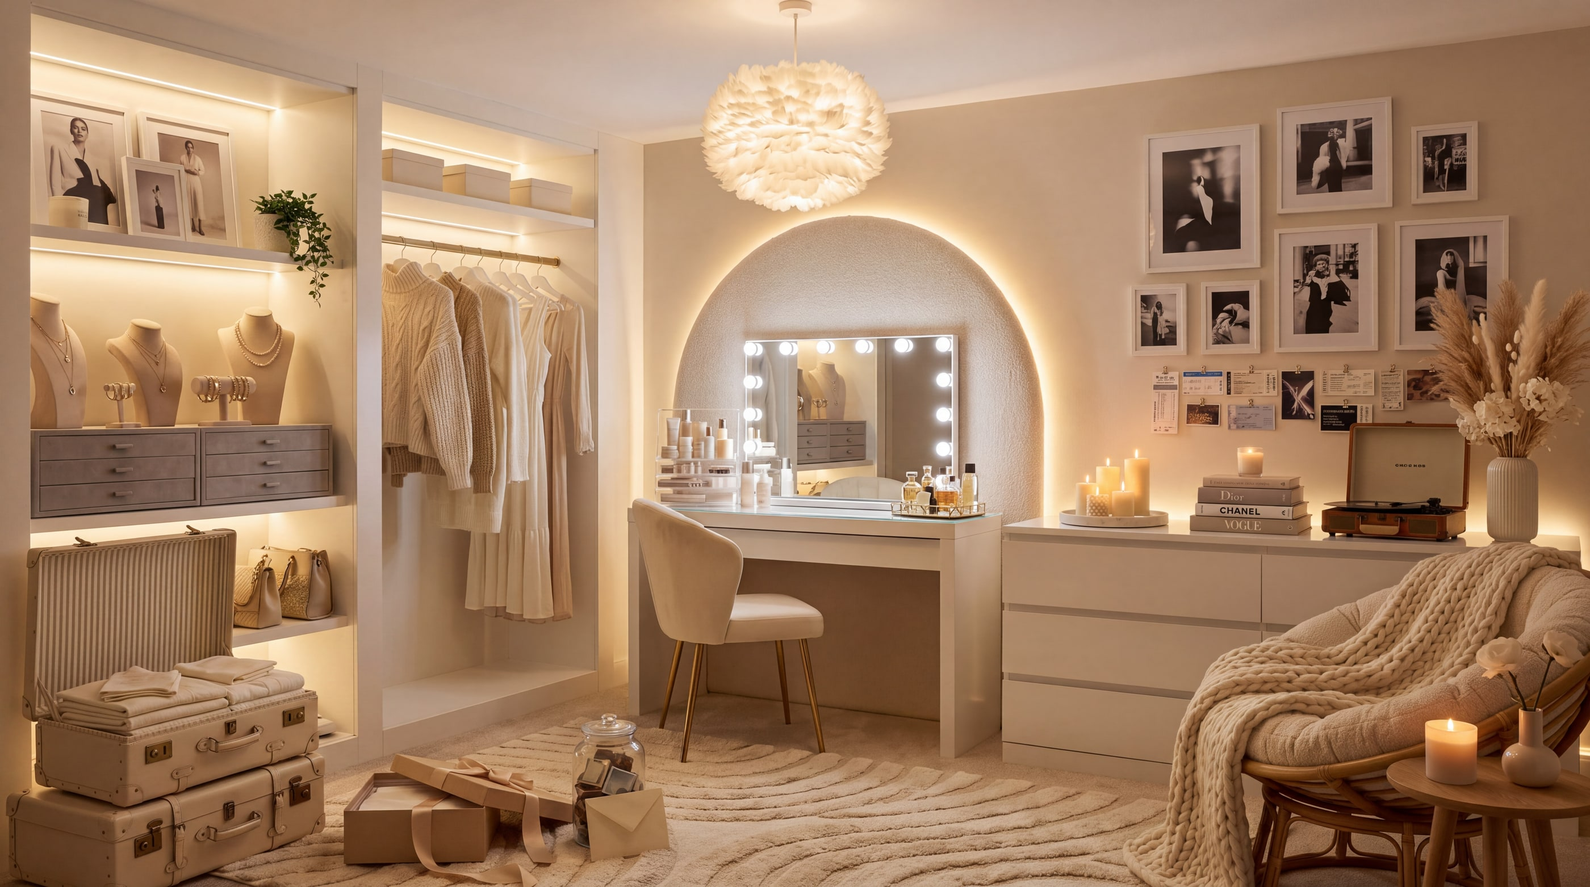
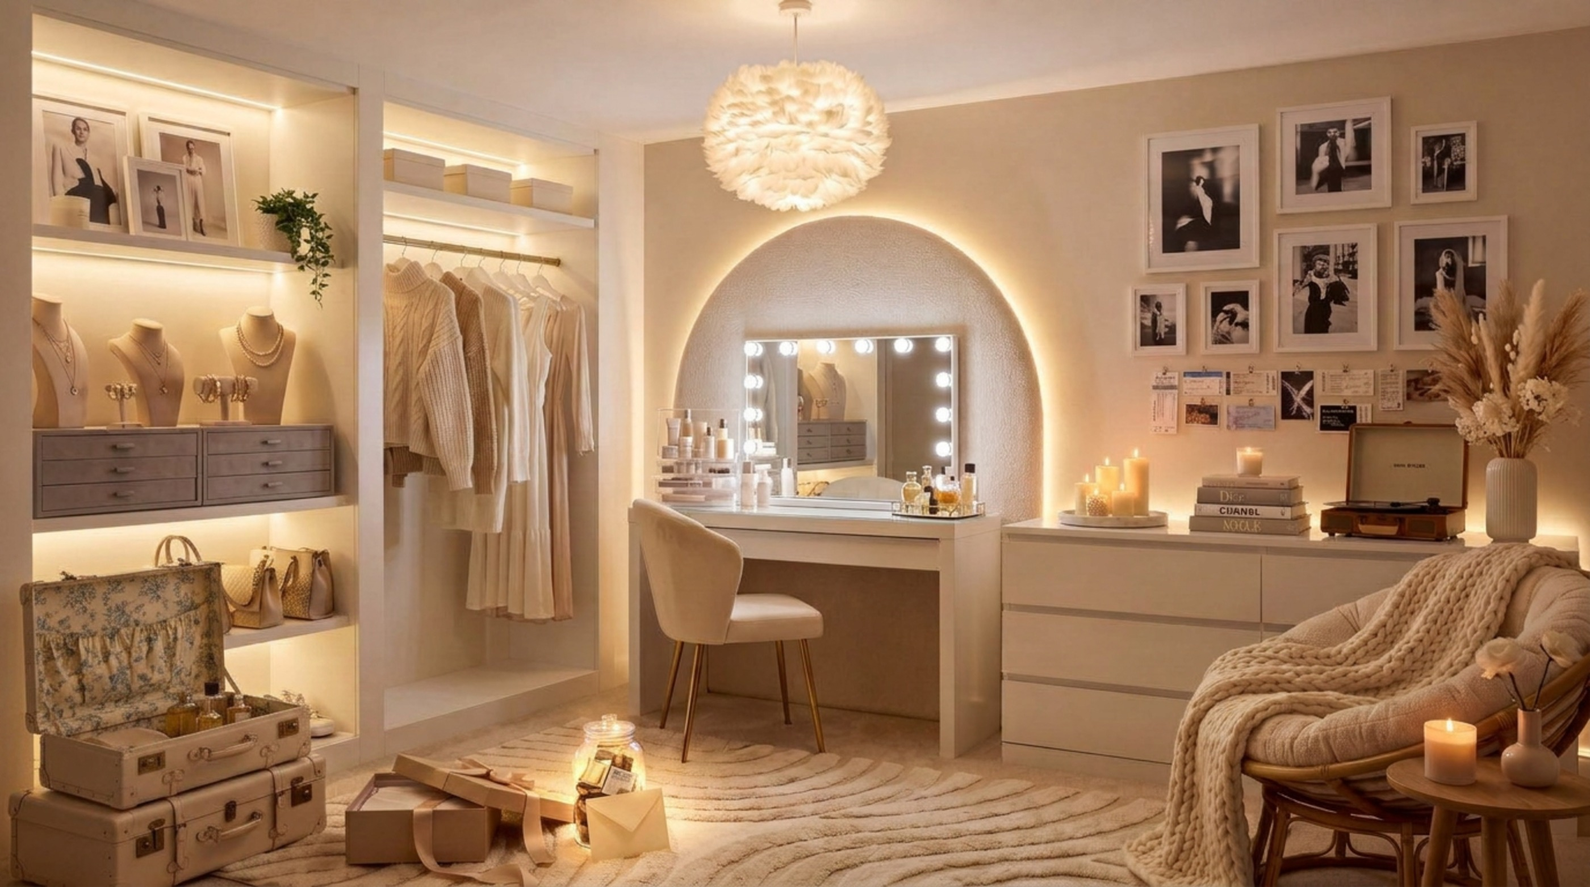
feat: партия 2 «Кремовой» — база байт-в-байт, подключено 4 из 6 (тикет 53-2)
Дизайнер сделал обе вещи, которых добивались две партии: база байт-в-байт
наша (sha совпал — блок «база» исчез из приёмки навсегда) и самопрогон
порога до отправки (его числа сошлись с нашими).

Порог 6 из 6; глаза 4 из 6. Подключены home (поднос выехал, свечи горят),
travel (заменил кадр раунда 3, который гасил банку-копилку при каждом
раскрытии), flowers (проигрыватель на месте), anything (банка цела). Отказы:
fashion — со штанги исчезли два свитера, третья пропажа этой зоны; perfume —
вся зона в расфокусе.

Кадров в контракте 7 → 10. Тесты контракта переведены на историю двух партий
(round8.batches), снимок аудита 49 не тронут. Маски: формат принят, геометрия
на доработке (прямоугольники вместо силуэтов; home задевает книги). Замеры
events/money дизайна сохранены как rectDesignMeasured-вопрос — сверка по 5504
отдельно, действуют наши прямоугольники.

Вердикт и задание допартии: design/ANSWERS-cream-batch2.md.

diff --git a/tests/design-contract.test.ts b/tests/design-contract.test.ts
@@ -237,24 +237,30 @@ describe("кадры «открыто» (openFrame — единственный 
   const accepted = allZones.filter(({ zone }) => zone.accepted);
   const absent = allZones.filter(({ zone }) => zone.objectAbsent);
 
-  it("кадров «открыто» ровно 7, и столько же с флагом accepted", () => {
+  it("кадров «открыто» ровно 10, и столько же с флагом accepted", () => {
     // Счёт кадров по раундам: 49 → 39 (раунд 4 переразметил 35 зон) → 33
     // (раунд 5 исправил ещё 14 прямоугольников) → 30 (раунд 7: +1 новый,
     // −4 никогда не проходивших порог) → 7 (тикет 49: −23 по просмотру
-    // глазами). Флаг и данные совпадают, потому что и то и другое ставит наше
-    // измерение, а не пакет.
-    expect(withFrame).toHaveLength(7);
-    expect(accepted).toHaveLength(7);
+    // глазами) → 10 (партия 2 «Кремовой»: +4, из них travel — замена кадра
+    // раунда 3, гасившего банку-копилку). Флаг и данные совпадают, потому что
+    // и то и другое ставит наше измерение, а не пакет.
+    expect(withFrame).toHaveLength(10);
+    expect(accepted).toHaveLength(10);
     expect(absent).toHaveLength(8);
-    expect(withFrame.map((z) => z.id)).toEqual([
-      "cream/travel",
-      "gamer/travel",
-      "sport/anything",
-      "sport/sneakers",
-      "sport/travel",
-      "study/events",
-      "study/sport",
-    ]);
+    expect(withFrame.map((z) => z.id).sort()).toEqual(
+      [
+        "cream/anything",
+        "cream/flowers",
+        "cream/home",
+        "cream/travel",
+        "gamer/travel",
+        "sport/anything",
+        "sport/sneakers",
+        "sport/travel",
+        "study/events",
+        "study/sport",
+      ].sort(),
+    );
   });
 
   it("accepted ⟺ openFrame: флаг больше не может разойтись с данными", () => {
@@ -315,8 +321,13 @@ describe("кадры «открыто» (openFrame — единственный 
     // ровно до тех пор, пока прямоугольник тот же, против которого его мерили.
     // `rectOld` — прямоугольник до последней переразметки; если он есть, зона
     // переразмечена, и кадр обязан быть снят заново.
-    const round3 = withFrame.filter(({ zone }) => zone.frameRound !== 7);
-    expect(round3).toHaveLength(6);
+    const byRound: Record<string, number> = {};
+    for (const { zone } of withFrame)
+      byRound[zone.frameRound ?? "r3"] = (byRound[zone.frameRound ?? "r3"] ?? 0) + 1;
+    // 5 раунда 3 (без поля), 1 раунда 7, 4 партии 2 раунда 8.
+    expect(byRound).toEqual({ r3: 5, "7": 1, "8": 4 });
+    const round3 = withFrame.filter(({ zone }) => zone.frameRound === undefined);
+    expect(round3).toHaveLength(5);
     for (const { id, zone } of round3) {
       expect(zone.rectOld, `${id}: у зоны с кадром переразметки быть не может`).toBeUndefined();
       expect(zone.remappedRound, `${id}`).toBeUndefined();
@@ -361,9 +372,10 @@ describe("кадры «открыто» (openFrame — единственный 
     // кадра», пять стояли одновременно в «нет предмета» и «переснять». Обе
     // поломки шли от флагов пакета. Теперь флаги ставит наше измерение, и
     // арифметика снова сходится в одну строку — новый пакет сломает её сразу.
-    // Тикет 49 передвинул 23 зоны из «принято» в «переснять»: 92 → 115.
+    // Тикет 49 передвинул 23 зоны из «принято» в «переснять»: 92 → 115;
+    // партия 2 «Кремовой» вернула четыре обратно: 115 → 112.
     const reshoot = allZones.filter(({ zone }) => zone.reshoot);
-    expect([accepted.length, reshoot.length, absent.length]).toEqual([7, 115, 8]);
+    expect([accepted.length, reshoot.length, absent.length]).toEqual([10, 112, 8]);
     const doubled = allZones.filter(
       ({ zone }) => [zone.accepted, zone.reshoot, zone.objectAbsent].filter(Boolean).length > 1,
     );
@@ -415,13 +427,13 @@ describe("кадры «открыто» (openFrame — единственный 
     // сняла приёмка 49: конверт там подменён шкатулкой с украшениями. Правило
     // про `warm`/`loft` осталось в силе и сторожится ниже — просто вычитать
     // ему больше нечего.
-    expect(withFrame).toHaveLength(7);
+    expect(withFrame).toHaveLength(10);
     const connected = rooms.flatMap((room) =>
       room.zones.filter((zone) => zone.openFrame).map((zone) => `${room.id}/${zone.key}`),
     );
-    expect(connected).toHaveLength(7);
+    expect(connected).toHaveLength(10);
     expect(connected.filter((id) => id.startsWith("warm/") || id.startsWith("loft/"))).toEqual([]);
-    expect(withFrame.filter(({ room }) => !["warm", "loft"].includes(room.id))).toHaveLength(7);
+    expect(withFrame.filter(({ room }) => !["warm", "loft"].includes(room.id))).toHaveLength(10);
     for (const room of rooms) {
       for (const zone of room.zones) {
         if (!zone.openFrame) continue;
@@ -484,7 +496,7 @@ describe("кадры «открыто» (openFrame — единственный 
     }
   });
 
-  it("раунд 8, «Кремовая»: 13 кадров смотрены глазами, подключено 0 — и почему", () => {
+  it("раунд 8, «Кремовая»: две партии в контракте числами", () => {
     // Первая полная комната раунда 8 (тикет 53). Сводка лежит в контракте
     // (`round8`), как `identityCheck` у тикета 49: отчёт в тикете легко
     // расходится с данными, числа рядом с флагами — нет.
@@ -508,21 +520,41 @@ describe("кадры «открыто» (openFrame — единственный 
         masksArrived: boolean;
       };
     };
-    const r8 = raw.round8;
-    expect(r8.batch).toBe("cream");
-    expect(r8.shot).toBe(13);
-    expect(r8.connected).toBe(0);
-    // Глаза обязательны по всем парам, и арифметика классов сходится с partiей.
-    expect(r8.eyes.reviewed).toBe(13);
+    const history = raw.round8 as unknown as {
+      batches: number;
+      latest: {
+        batch: string; shot: number; passedThreshold: number; connected: number;
+        eyes: { reviewed: number; honest: number; contentLost: number; outOfFocus: number };
+        base: { identical: boolean; sha256: string };
+        masksArrived: number; note: string;
+      };
+      first: typeof raw.round8;
+    };
+    expect(history.batches).toBe(2);
+
+    // Партия 1 (тикет 53): 13 кадров, подключено 0, база не наша — история
+    // хранится целиком, чтобы урок не потерялся.
+    const first = history.first;
+    expect(first.shot).toBe(13);
+    expect(first.connected).toBe(0);
+    expect(first.base.identical).toBe(false);
+    expect(first.base.l1).toBeCloseTo(0.0327, 4);
+    expect(first.masksArrived).toBe(false);
+
+    // Партия 2: база байт-в-байт наша — блок «база» исчез из приёмки, как и
+    // обещали; порог 6 из 6, глаза сняли два (пропажа и расфокус).
+    const latest = history.latest;
+    expect(latest.batch).toBe("cream");
+    expect(latest.shot).toBe(6);
+    expect(latest.passedThreshold).toBe(6);
+    expect(latest.connected).toBe(4);
+    expect(latest.eyes.reviewed).toBe(6);
     expect(
-      r8.eyes.honest + r8.eyes.substitution + r8.eyes.contentLost + r8.eyes.nothingHappened,
-    ).toBe(13);
-    // Главная причина нулевого подключения — база партии не наша: продукт
-    // кроссфейдит СВОЮ базу, и кадр, снятый с чужой, мигает всей комнатой.
-    expect(r8.base.identical).toBe(false);
-    expect(r8.base.l1).toBeCloseTo(0.0327, 4);
-    expect(r8.note).toMatch(/байт-в-байт/u);
-    expect(r8.masksArrived).toBe(false);
+      latest.eyes.honest + latest.eyes.contentLost + latest.eyes.outOfFocus,
+    ).toBe(6);
+    expect(latest.base.identical).toBe(true);
+    expect(latest.base.sha256).toBe("06a03e87ff2d6ce7");
+    expect(latest.masksArrived).toBe(3);
 
     // Двенадцать вердиктов раунда 8 лежат у зон (travel не переоценивался:
     // его рабочий кадр раунда 3 подключён, а новый кадр партии не нужен —
@@ -531,26 +563,38 @@ describe("кадры «открыто» (openFrame — единственный 
     const reviewed = cream.zones.filter((zone) => zone.reshootReason?.includes("тикет 53"));
     expect(reviewed.map((zone) => zone.key).sort()).toEqual(
       [
-        "anything", "bags", "beauty", "books", "events", "fashion",
-        "flowers", "home", "jewelry", "money", "music", "perfume",
+        "bags", "beauty", "books", "events", "fashion",
+        "jewelry", "money", "music", "perfume",
       ].sort(),
     );
     const byClass = (klass: string) =>
       reviewed.filter((zone) => zone.reshootReason?.startsWith(klass)).map((zone) => zone.key);
     expect(byClass("честное раскрытие, не подключён").sort()).toEqual(
-      ["events", "fashion", "jewelry", "money"].sort(),
+      ["events", "jewelry", "money"].sort(),
     );
-    expect(byClass("подмена")).toHaveLength(6);
-    expect(byClass("подмена окружения").sort()).toEqual(["anything", "flowers"].sort());
-    expect(byClass("действия нет").sort()).toEqual(["home", "music"].sort());
+    // Подмены первой партии: bags, beauty, books (perfume перекрыт партией 2;
+    // anything и flowers — «подмена окружения» — подключены честными кадрами
+    // партии 2, их причины сняты вместе с reshoot).
+    expect(byClass("подмена").sort()).toEqual(["bags", "beauty", "books"].sort());
+    expect(byClass("действия нет").sort()).toEqual(["music"].sort());
+    // Партия 2 переоценила двоих: у fashion и perfume причина начинается с
+    // «партия 2» — их вердикты первой партии перекрыты вторыми кадрами
+    // (fashion: пропажа двух свитеров, третий раз; perfume: зона в расфокусе).
+    expect(byClass("партия 2").sort()).toEqual(["fashion", "perfume"].sort());
     for (const zone of reviewed) {
       expect(zone.openFrame ?? null, `cream/${zone.key}: кадр партии не подключён`).toBeNull();
       expect(zone.accepted, `cream/${zone.key}`).toBe(false);
       expect(zone.reshoot, `cream/${zone.key}: очередь на пересъёмку`).toBe(true);
     }
-    // И в раздаче кадров партии нет: единственный кремовый кадр — travel.
+    // В раздаче — пять кремовых кадров: travel партии 2 плюс home, flowers,
+    // anything (fashion и perfume партия 2 не прошла по глазам).
     const shipped = readdirSync(resolve(PKG, "refs")).filter((f) => f.startsWith("o-cream-"));
-    expect(shipped).toEqual(["o-cream-travel.jpg"]);
+    expect(shipped.sort()).toEqual([
+      "o-cream-anything.jpg",
+      "o-cream-flowers.jpg",
+      "o-cream-home.jpg",
+      "o-cream-travel.jpg",
+    ]);
   });
 
   it("прямоугольники cream/events и cream/money применены ровно из rects-fix", () => {
@@ -592,7 +636,11 @@ describe("кадры «открыто» (openFrame — единственный 
     };
     const check = raw.identityCheck;
     expect(check.reviewed).toBe(30);
-    expect(check.honest).toBe(withFrame.length);
+    // identityCheck — снимок аудита 49: семь честных ТОГДА. Партия 2 добавила
+    // четыре кадра сверх аудита — их история в `round8.latest`, а не здесь.
+    expect(check.honest).toBe(7);
+    expect(withFrame.length).toBe(check.honest + raw.round8.latest.connected - 1);
+    // (−1: travel был честным у аудита И заменён партией 2 — не двойной счёт.)
     expect(check.substitution + check.contentLost + check.nothingHappened + check.honest).toBe(30);
     expect(check.ringMax).toBe(0.09);
     // Кольцо — флаг для глаза, а не отказ. Это записано, чтобы следующий

diff --git a/design/ANSWERS-cream-batch2.md b/design/ANSWERS-cream-batch2.md
@@ -1,0 +1,53 @@
+# Партия 2 «Кремовой» — вердикт
+
+Дата: 2026-08-06. База: **байт-в-байт наша, sha совпал** — блок «база» из
+приёмки исчез, как и обещали. Ваш самопрогон порога подтверждён нашим: числа
+сошлись.
+
+## Таблица
+
+| Кадр | Порог (своя · отн · кольцо) | Глаза | Вердикт |
+|---|---|---|---|
+| `home` | 0.081 · 4.25 · 0.022 | тот же поднос, те же свечи, выехал и горит | **подключён** |
+| `travel` | 0.126 · 4.69 · 0.041 | чемодан открылся, вещи внутри | **подключён** — заменил кадр раунда 3, который гасил банку-копилку |
+| `flowers` | 0.096 · 4.92 · 0.040 | букет развернулся, проигрыватель на месте | **подключён** |
+| `anything` | 0.070 · 3.57 · 0.028 | крышка снята, лента размотана, банка цела | **подключён** |
+| `fashion` | 0.068 · 3.40 · 0.017 | **со штанги исчезли два свитера** — третий раз у этой зоны | пересъёмка |
+| `perfume` | 0.116 · 6.19 · 0.036 | **вся зона в расфокусе**, флаконы не читаются | пересъёмка |
+
+**Подключено 4 из 6.** В контракте кадров стало **10**; «Кремовая» раскрывается
+в пяти зонах.
+
+## Принято из пакета
+
+- Per-room глагол `cream/fashion` «вещи расступаются» — согласован, ждёт
+  честного кадра. Для `cream/jewelry` предложение в силе: «ящики с
+  украшениями выдвигаются»?
+- `zones.json`/`items.json` сверены с внесённым по письму — расходятся только
+  примечаниями; одна потеря у вас: подпись money укоротилась до «основной
+  подарок», хвост «· открыт для всех» пропал — верните.
+- `masters-cream.json` принят; ваш `CLAUDE.md` принят.
+
+## Маски: формат — да, геометрия — доработать
+
+Три полигона получили, формат окончательно принят. По содержанию:
+
+- `home` — почти точный, но правый край **залезает на стопку книг** (предмет
+  зоны books). Подрежьте до ~468.
+- `fashion` и `jewelry` — это 4-точечные прямоугольники, а не силуэты; у
+  fashion в полигоне треть пустой ниши. Силуэт = 6–12 точек по предмету.
+
+## Ваши замеры events/money
+
+Получили (`rectDesignMeasured`). Расходятся с нашими сильно (events: ваш
+538,141 против нашего 447,74). Сверим по оригиналам 5504 и ответим отдельным
+письмом — до тех пор действуют наши прямоугольники, кадры этих зон снимать
+по ним.
+
+## Допартия — «переснимай», состав 9
+
+`beauty, jewelry, bags, events, books, music, money` (ваши семь) **+ fashion
++ perfume**. К двум добавленным: fashion — перед отправкой пересчитайте вещи
+на штанге ДО и ПОСЛЕ, числа должны совпасть; perfume — фокус на предметах
+зоны, расфокус = брак показа. База та же, байт-в-байт. С партией: уточнённые
+полигоны масок и SVG-логотип Grace (вордмарк уже в продукте текстом).
